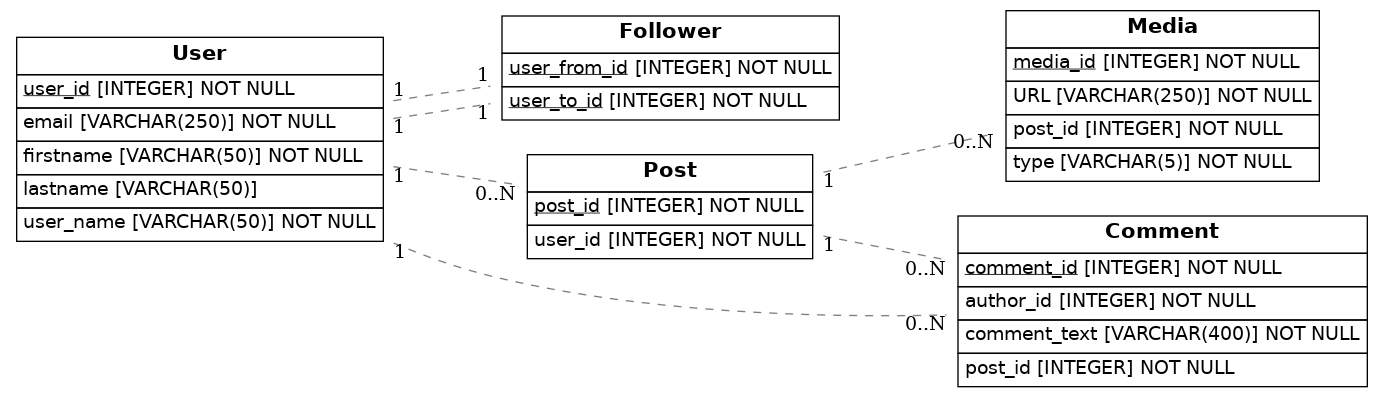
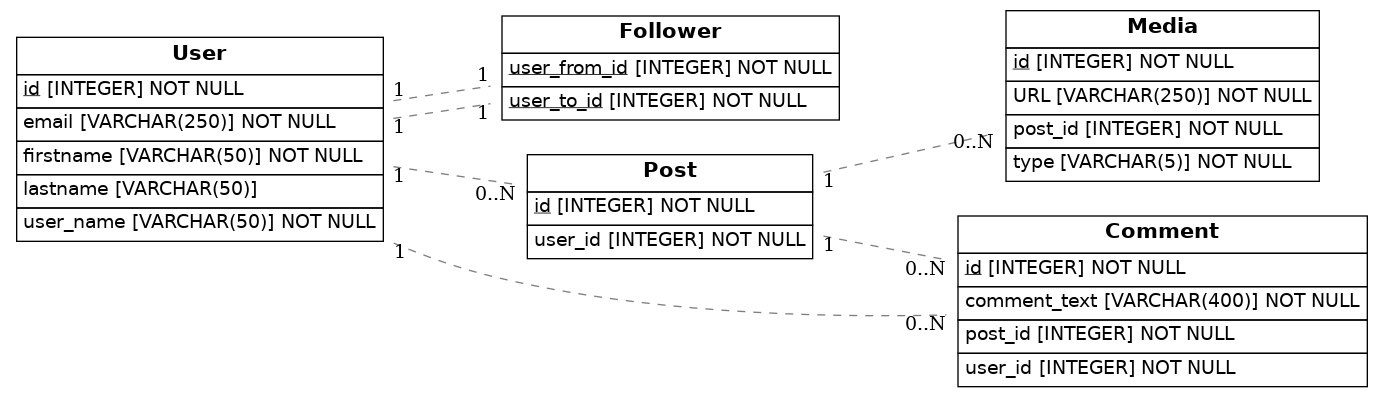
Ejercicio listo

diff --git a/src/models.py b/src/models.py
@@ -10,7 +10,8 @@ Base = declarative_base()
 
 class User(Base):
     __tablename__ = 'User'
-    user_id = Column(Integer, primary_key=True)
+
+    id = Column(Integer, primary_key=True)
     user_name = Column(String(50), nullable=False)
     firstname = Column(String(50), nullable=False)
     lastname = Column(String(50))
@@ -27,8 +28,9 @@ class User(Base):
 
 class Follower(Base):
     __tablename__ = 'Follower'
-    user_from_id = Column(Integer, ForeignKey(User.user_id))
-    user_to_id = Column(Integer, ForeignKey(User.user_id))
+
+    user_from_id = Column(Integer, ForeignKey(User.id), primary_key=True, nullable=False)
+    user_to_id = Column(Integer, ForeignKey(User.id), primary_key=True, nullable=False)
 
     def to_dict(self):
         return {
@@ -38,8 +40,8 @@ class Follower(Base):
 
 class Post(Base):
     __tablename__ = 'Post'
-    post_id = Column(Integer, primary_key=True)
-    user_id = Column(Integer, ForeignKey(User.user_id), nullable=False)
+    id = Column(Integer, primary_key=True)
+    user_id = Column(Integer, ForeignKey(User.id), nullable=False)
 
     def to_dict(self):
         return {
@@ -49,10 +51,11 @@ class Post(Base):
 
 class Media(Base):
     __tablename__ = 'Media'
-    media_id = Column(Integer, primary_key=True)
+
+    id = Column(Integer, primary_key=True)
     type = Column(Enum('photo', 'video', 'reel'), nullable=False)
     URL = Column(String(250), nullable=False)
-    post_id = Column(Integer, ForeignKey(Post.post_id), nullable=False)
+    post_id = Column(Integer, ForeignKey(Post.id), nullable=False)
 
     def to_dict(self):
         return {
@@ -65,16 +68,16 @@ class Media(Base):
 class Comment(Base):
     __tablename__ = 'Comment'
 
-    comment_id = Column(Integer, primary_key=True)
+    id = Column(Integer, primary_key=True)
     comment_text = Column(String(400), nullable=False)
-    author_id = Column(Integer, ForeignKey(User.user_id), nullable=False)
-    post_id = Column(Integer, ForeignKey(Post.post_id), nullable=False)
+    user_id = Column(Integer, ForeignKey(User.id), nullable=False)
+    post_id = Column(Integer, ForeignKey(Post.id), nullable=False)
 
     def to_dict(self):
         return {
             "comment_id": self.comment_id,
             "comment_text": self.comment_text,
-            "author_id": self.author_id,
+            "author_id": self.user_id,
             "post_id": self.post_id
         }
 
